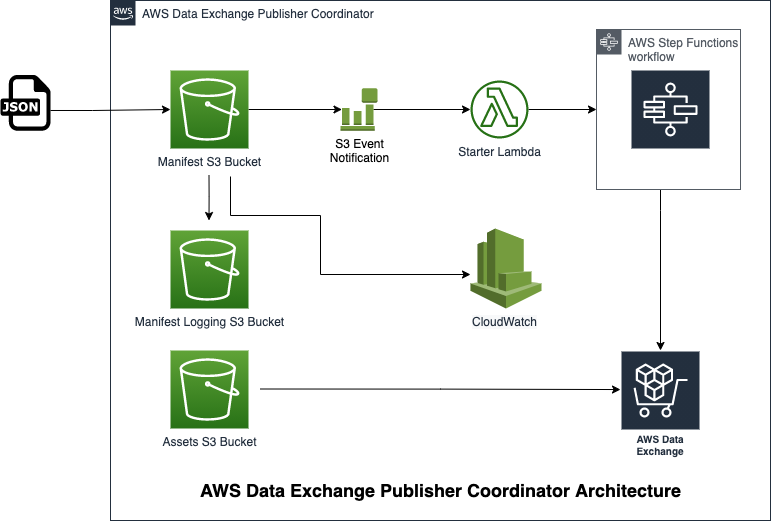
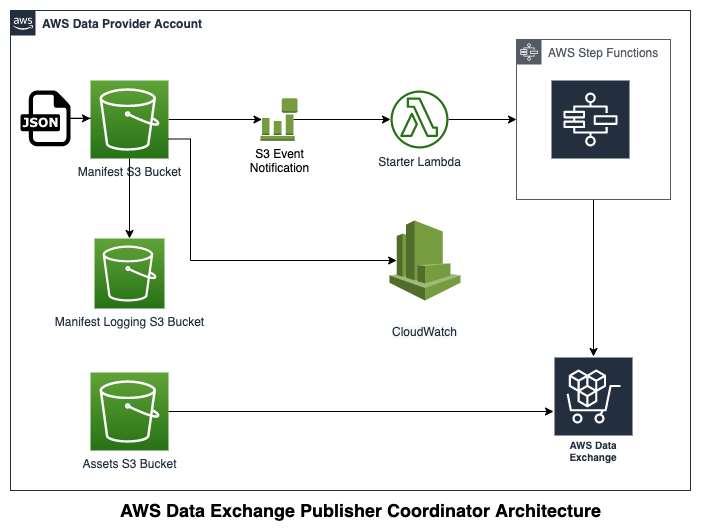
updated architecture diagram and README

Changed region(s): [[0.0, 0.0, 1.0, 1.0], [0.5392, 0.3992, 0.719, 0.6449], [0.3894, 0.4607, 0.4194, 0.4914]]

diff --git a/README.md b/README.md
@@ -65,7 +65,7 @@ chmod +x run.sh
 ./run.sh
 ```
 
-### The Manifest File
+### Manifest File
 Any time a manifest file is uploaded to the `ManifestBucket`, a Step Function execution pipeline is trigerred. The manifest file should follow a specific format:
 - The of the manifest file should end with `.json`
 - The file should include a `JSON` object with the following format:
